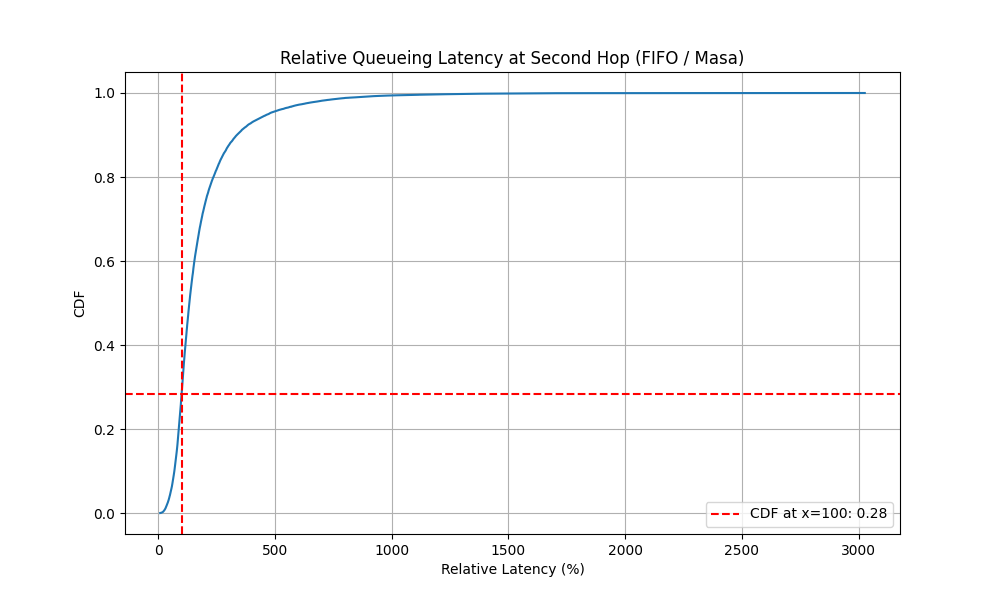
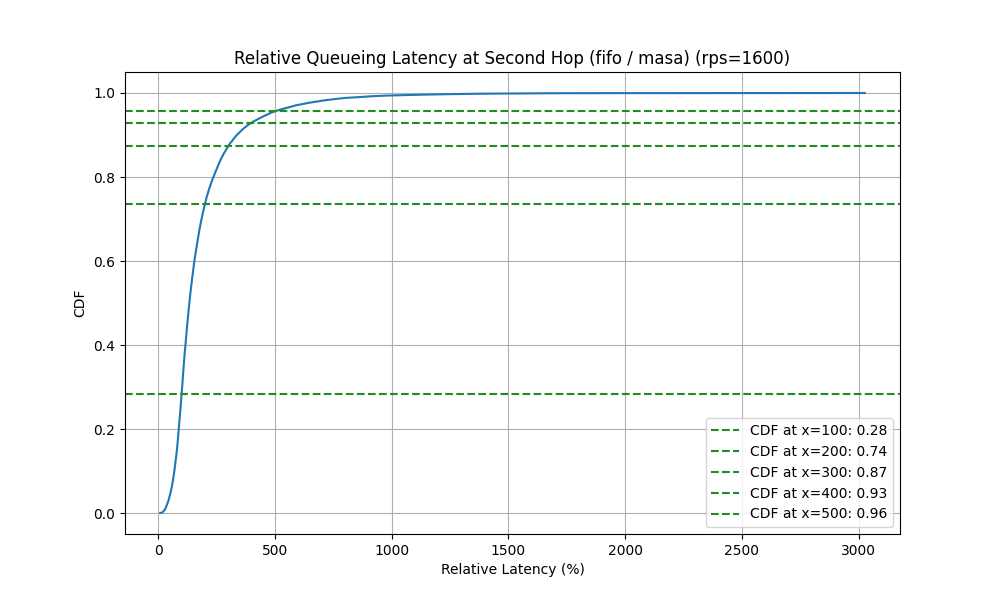
chore: Update figure

diff --git a/reboot/snippets/flat/plot_e2e_cdf.py b/reboot/snippets/flat/plot_e2e_cdf.py
@@ -1,0 +1,82 @@
+from typing import *
+
+import matplotlib.pyplot as plt
+import numpy as np
+import pandas as pd
+
+rps = 1600
+modes = ["masa", "fifo"]
+
+results: Dict[str, List[int]] = {"masa": [], "fifo": []}
+
+for mode in modes:
+    file = f"r{rps}_{mode}.csv"
+    df = pd.read_csv(file)
+
+    latencies = list(df["latency"])
+    results[mode] = latencies
+
+
+def plot_cdf(results: Dict[str, List[int]], title: str, fig_name: str):
+    fig = plt.figure(figsize=(10, 6))
+
+    for mode in modes:
+        latencies = [r / 1e3 for r in results[mode]]
+        latencies.sort()
+        cdf = np.arange(1, len(latencies) + 1) / len(latencies)
+
+        plt.plot(latencies, cdf, label=mode)
+
+    # plt.tight_layout()
+    plt.xlabel("Latency (ms)")
+    plt.ylabel("CDF")
+    plt.title(title)
+    plt.legend()
+    plt.grid(True)
+    plt.savefig(fig_name)
+    plt.show()
+
+
+plot_cdf(results, f"Latency CDF (RPS={rps})", f"fig_e2e_cdf.png")
+
+
+def plot_cdf_relative(results: List[float], title: str, fig_name: str):
+    fig = plt.figure(figsize=(10, 6))
+
+    results.sort()
+    cdf = np.arange(1, len(results) + 1) / len(results)
+
+    plt.plot(results, cdf)
+
+    pois = [100, 200, 300, 400, 500]
+    for poi in pois:
+        # plt.axvline(x=poi, color="r", linestyle="--")
+        if results[-1] >= poi:
+            y_value = next((y for x, y in zip(results, cdf) if x >= poi), None)
+            if y_value is not None:
+                plt.axhline(
+                    y=y_value,
+                    color="forestgreen",
+                    linestyle="--",
+                    label=f"CDF at x={poi}: {y_value:.2f}",
+                )
+
+    plt.legend()  # Show legend with the label
+
+    # plt.tight_layout()
+    plt.xlabel("Relative Latency (%)")
+    plt.ylabel("CDF")
+    plt.title(title)
+    plt.grid(True)
+    plt.savefig(fig_name)
+    plt.show()
+
+
+results_relative: List[float] = []
+for i in range(len(results["masa"])):
+    results_relative.append(results["fifo"][i] * 100 / results["masa"][i])
+plot_cdf_relative(
+    results_relative,
+    f"Relative Latency CDF (fifo / masa) (rps={rps})",
+    f"fig_e2e_relative_cdf.png",
+)

diff --git a/reboot/snippets/flat/plot_queueing_cdf.py b/reboot/snippets/flat/plot_queueing_cdf.py
@@ -4,6 +4,7 @@ import matplotlib.pyplot as plt
 import numpy as np
 import pandas as pd
 
+rps = 1600
 modes = ["masa", "fifo"]
 results_raw = {}
 sh_i1 = "say_hello_i1"
@@ -63,7 +64,7 @@ for mode in modes:
 
 plot_cdf(
     results_queueing_second_hop,
-    "Queueing Latency at Second Hop",
+    f"Queueing Latency at Second Hop (rps={rps})",
     "fig_queueing_second_hop_cdf.png",
 )
 
@@ -76,18 +77,20 @@ def plot_cdf_relative(results: List[float], title: str, fig_name: str):
 
     plt.plot(results, cdf)
 
-    plt.axvline(x=100, color="r", linestyle="--")
-    if results[-1] >= 100:
-        # Only calculate if there are results that reach or exceed 100%
-        y_value = next((y for x, y in zip(results, cdf) if x >= 100), None)
-        if y_value is not None:
-            plt.axhline(
-                y=y_value,
-                color="r",
-                linestyle="--",
-                label=f"CDF at x=100: {y_value:.2f}",
-            )
-            plt.legend()  # Show legend with the label
+    pois = [100, 200, 300, 400, 500]
+    for poi in pois:
+        # plt.axvline(x=poi, color="r", linestyle="--")
+        if results[-1] >= poi:
+            y_value = next((y for x, y in zip(results, cdf) if x >= poi), None)
+            if y_value is not None:
+                plt.axhline(
+                    y=y_value,
+                    color="forestgreen",
+                    linestyle="--",
+                    label=f"CDF at x={poi}: {y_value:.2f}",
+                )
+
+    plt.legend()  # Show legend with the label
 
     # plt.tight_layout()
     plt.xlabel("Relative Latency (%)")
@@ -107,6 +110,6 @@ for i in range(len(results_queueing_second_hop["masa"])):
     )
 plot_cdf_relative(
     results_queueing_second_hop_relative,
-    "Relative Queueing Latency at Second Hop (FIFO / Masa)",
+    f"Relative Queueing Latency at Second Hop (fifo / masa) (rps={rps})",
     "fig_queueing_second_hop_relative_cdf.png",
 )
